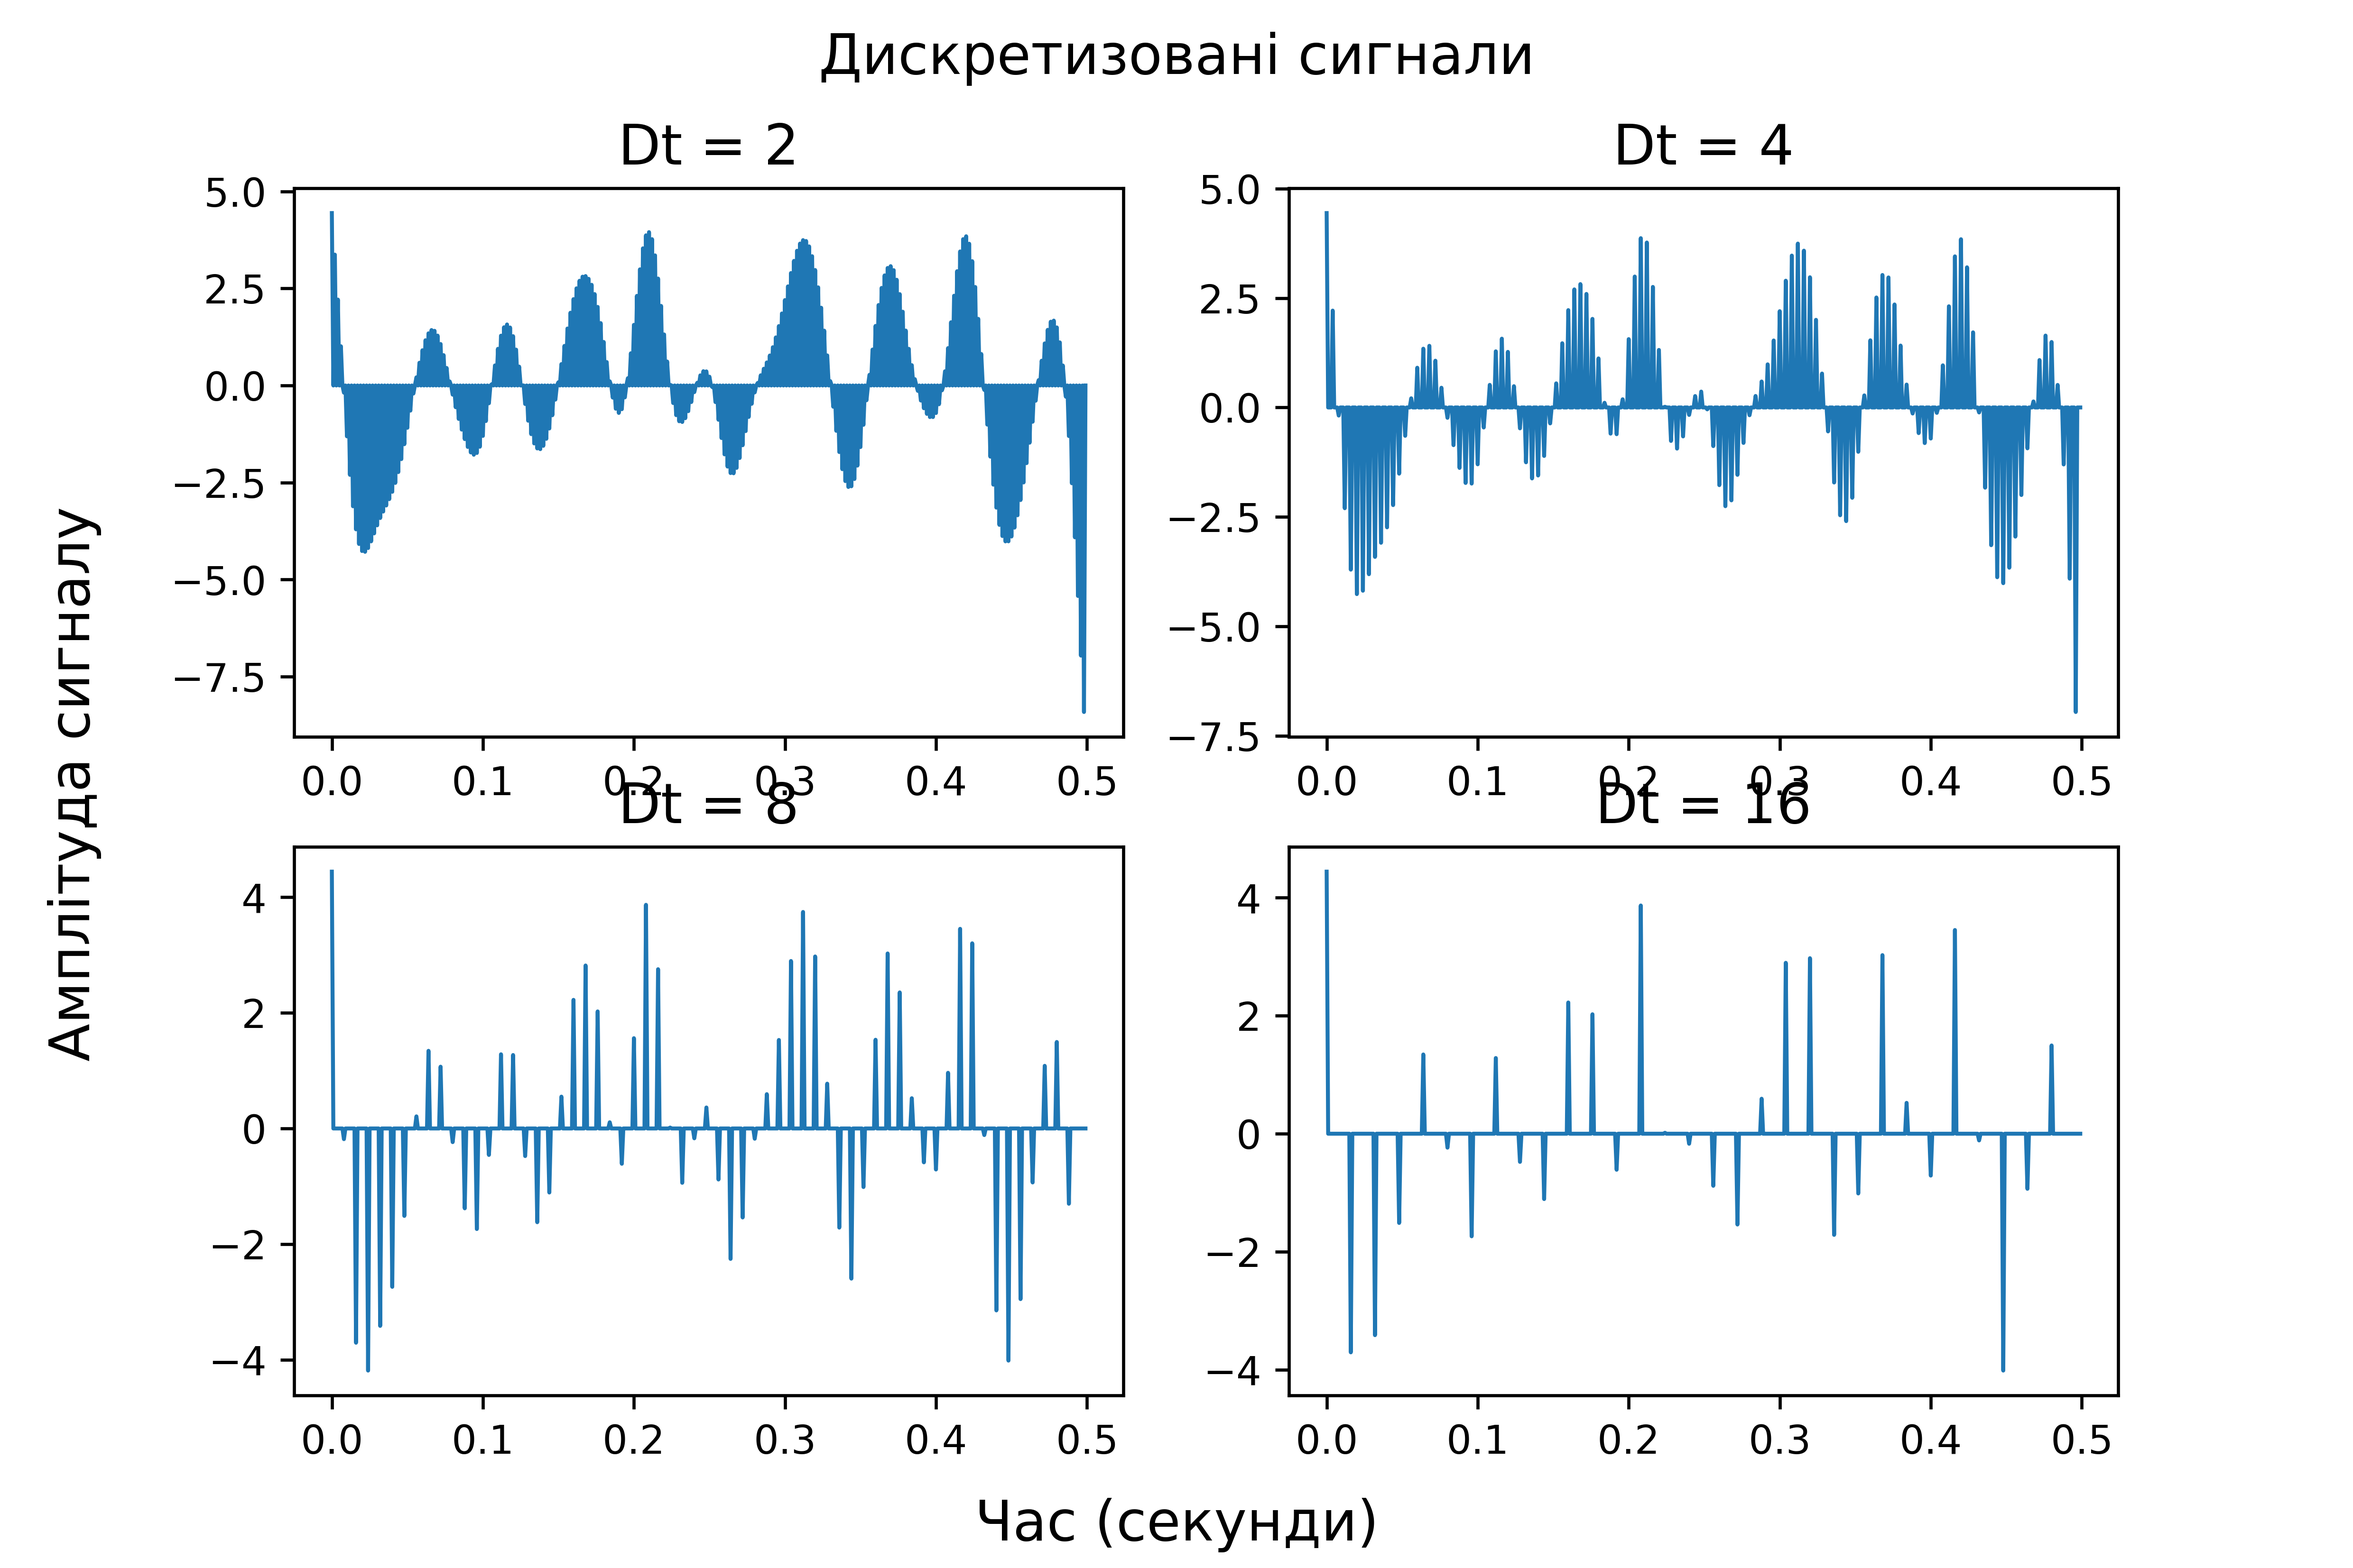
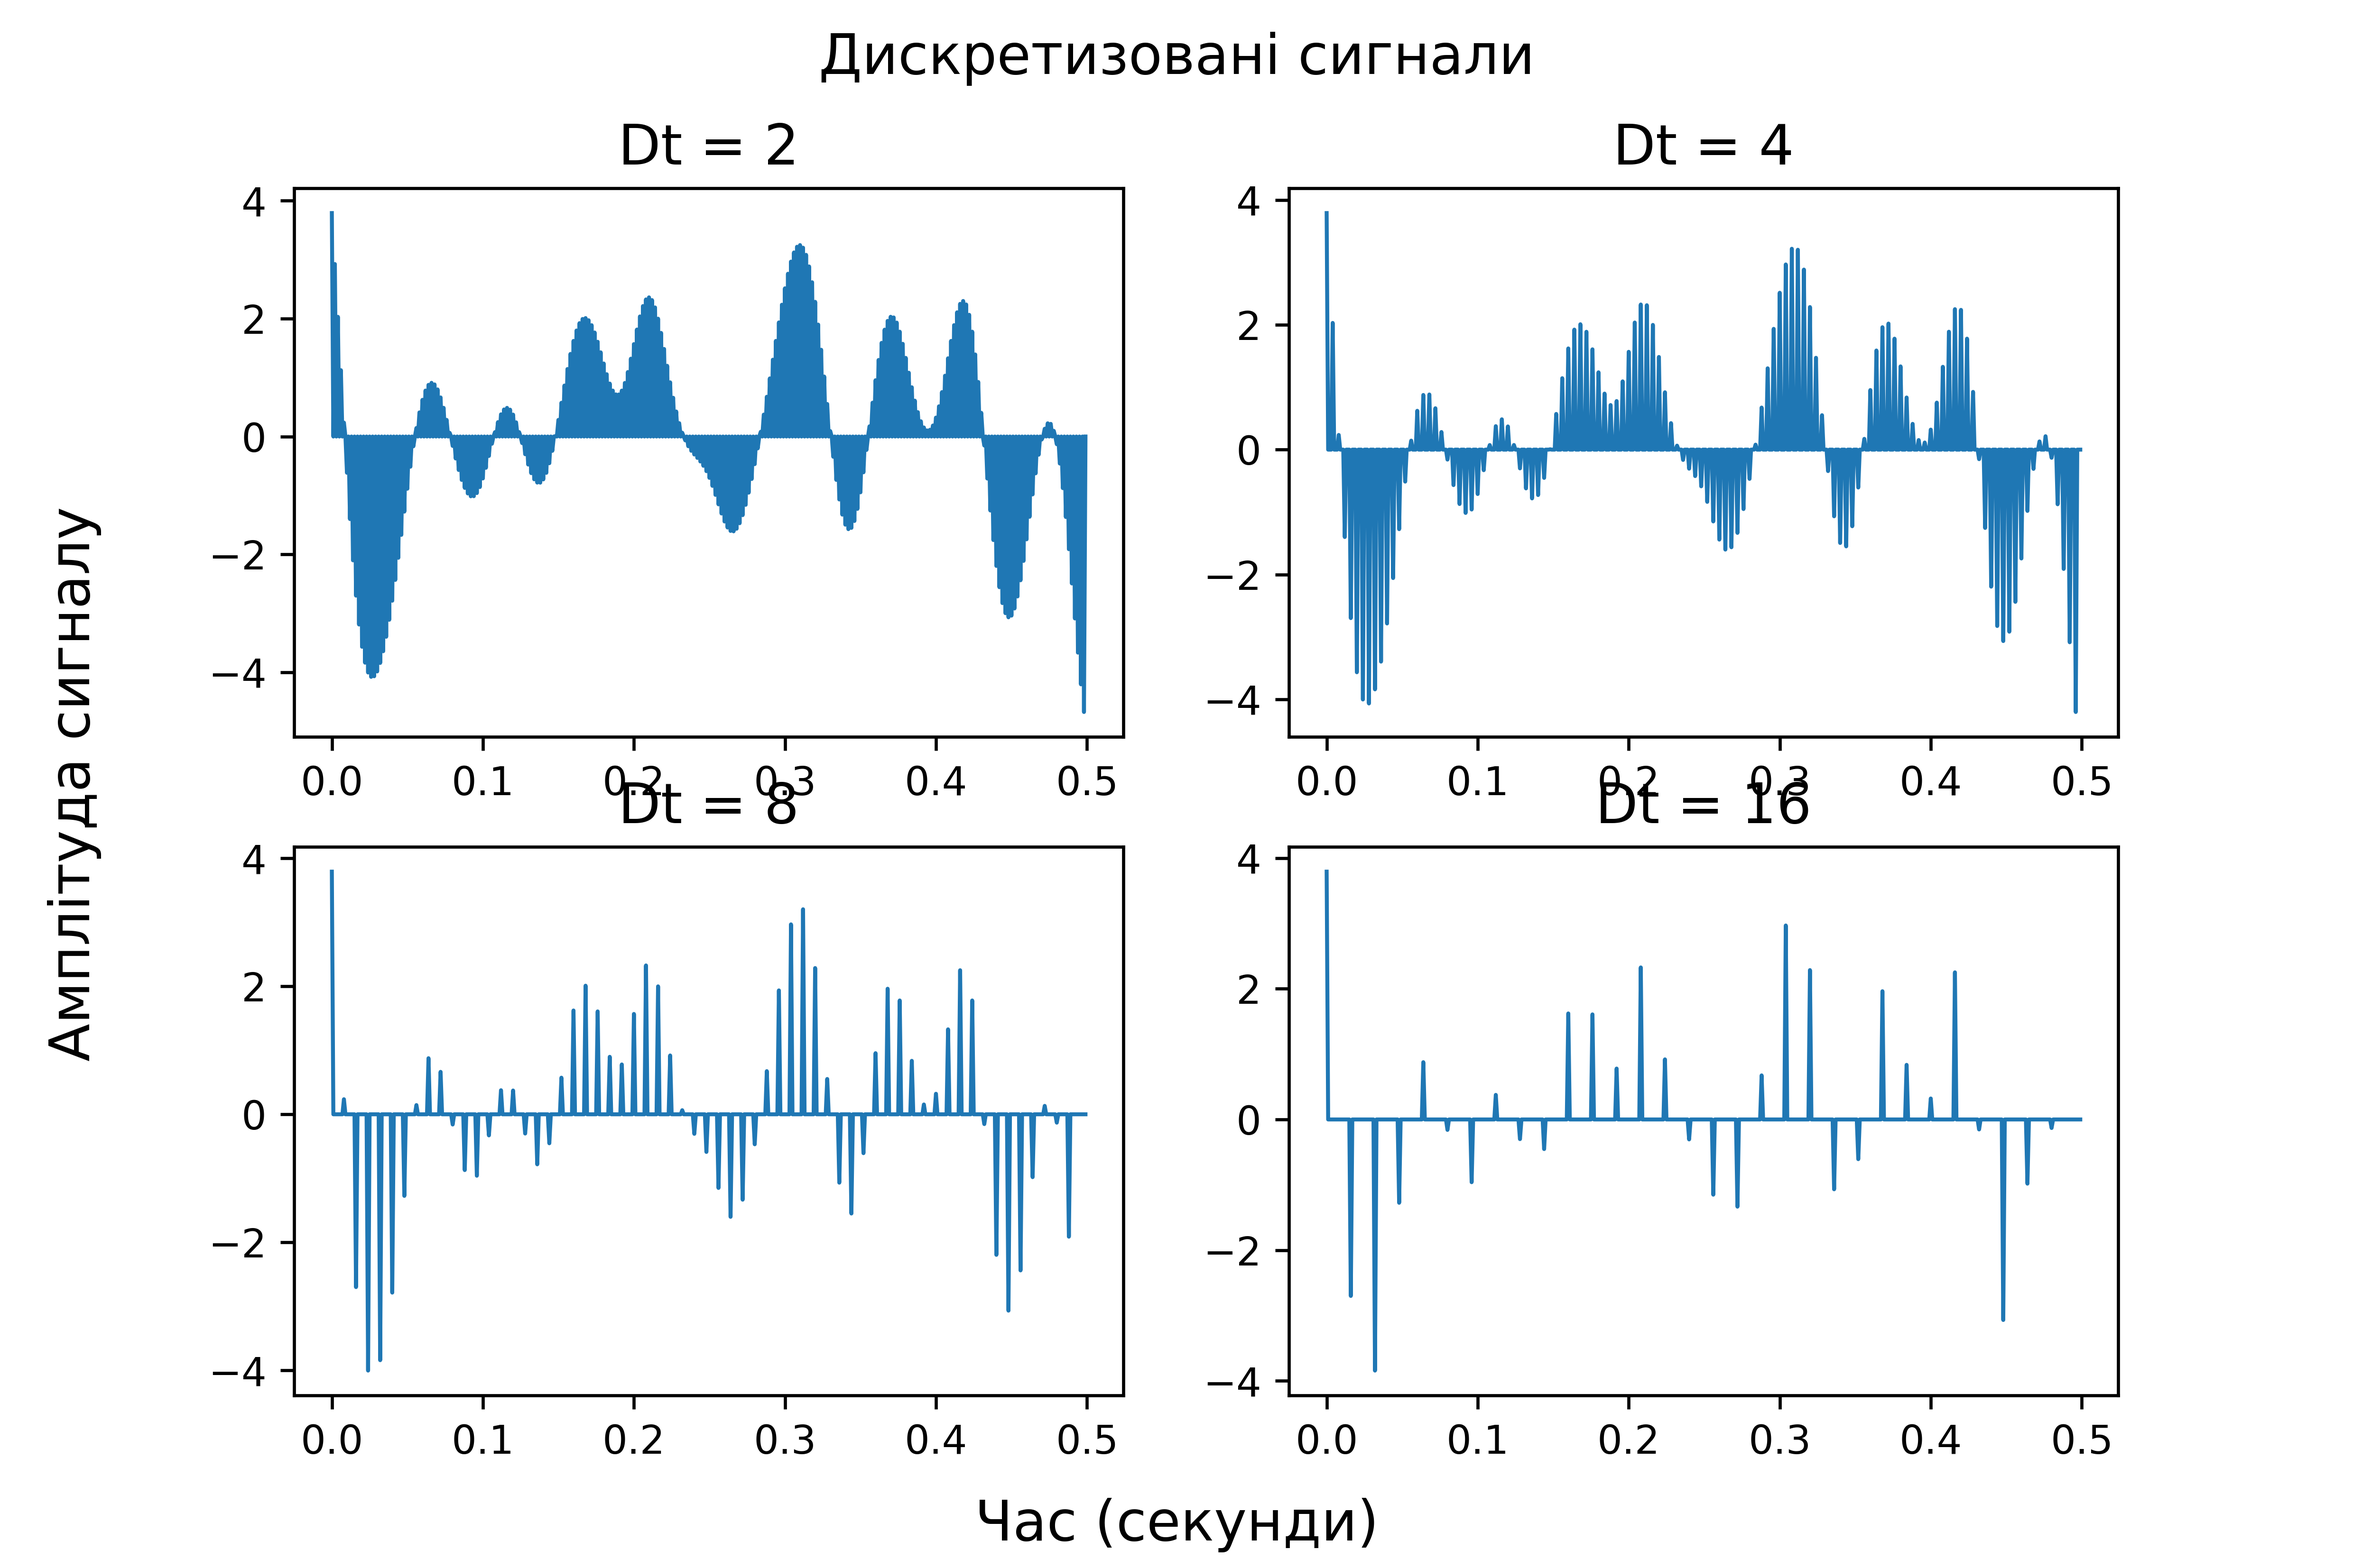
Signal processing, 3

diff --git a/SignalProcessing/SignalProcessing.py b/SignalProcessing/SignalProcessing.py
@@ -7,9 +7,10 @@ from pathlib import Path
 N_SAMPLES = 500
 FS_HZ = 1000
 F_MAX_HZ = 19
-F_FILTER_HZ = 26
+F_FILTER_HZ = F_MAX_HZ
 RANDOM_SEED = 42
 DISCRETIZATION_STEPS = [2, 4, 8, 16]
+QUANTIZATION_LEVELS = [4, 16, 64, 256]
 
 
 def generate_signal(n=N_SAMPLES, mean=0.0, std=10.0, seed=RANDOM_SEED):
@@ -133,6 +134,82 @@ def plot_metric(dt_values, values, title, ylabel, filename):
     fig.savefig(out_dir / filename, dpi=600)
 
 
+def plot_metric_levels(levels, values, title, ylabel, filename):
+    width_cm = 21
+    height_cm = 14
+    font_size = 14
+    line_width = 1
+
+    fig, ax = plt.subplots(figsize=(width_cm / 2.54, height_cm / 2.54))
+    ax.plot(levels, values, linewidth=line_width, marker="o")
+    ax.set_xlabel("Кількість рівнів квантування M", fontsize=font_size)
+    ax.set_ylabel(ylabel, fontsize=font_size)
+    ax.set_title(title, fontsize=font_size)
+    ax.grid(True, linewidth=0.4, alpha=0.6)
+
+    out_dir = Path(__file__).resolve().parent / "figures"
+    out_dir.mkdir(parents=True, exist_ok=True)
+    fig.savefig(out_dir / filename, dpi=600)
+
+
+def plot_quantization_table(quantize_levels, quantize_bits, m_levels):
+    fig, ax = plt.subplots(figsize=(14 / 2.54, m_levels / 2.54))
+    table_data = np.c_[np.round(quantize_levels[:m_levels], 6), quantize_bits[:m_levels]]
+    table = ax.table(
+        cellText=table_data,
+        colLabels=["Значення сигналу", "Кодова послідовність"],
+        loc="center",
+    )
+    table.set_fontsize(14)
+    table.scale(1, 2)
+    ax.axis("off")
+
+    out_dir = Path(__file__).resolve().parent / "figures"
+    out_dir.mkdir(parents=True, exist_ok=True)
+    fig.savefig(out_dir / f"Таблиця квантування для {m_levels} рівнів.png", dpi=600)
+
+
+def plot_bit_sequence(bits, m_levels):
+    width_cm = 21
+    height_cm = 14
+    font_size = 14
+    line_width = 0.1
+
+    fig, ax = plt.subplots(figsize=(width_cm / 2.54, height_cm / 2.54))
+    x = np.arange(0, len(bits))
+    ax.step(x, bits, linewidth=line_width)
+    ax.set_xlabel("Відліки", fontsize=font_size)
+    ax.set_ylabel("Бітова послідовність", fontsize=font_size)
+    ax.set_title(f"Кодова послідовність для M = {m_levels}", fontsize=font_size)
+
+    out_dir = Path(__file__).resolve().parent / "figures"
+    out_dir.mkdir(parents=True, exist_ok=True)
+    fig.savefig(out_dir / f"Кодова послідовність для M = {m_levels}.png", dpi=600)
+
+
+def plot_quantized_signals_grid(signals, time, levels):
+    width_cm = 21
+    height_cm = 14
+    font_size = 14
+    line_width = 1
+
+    fig, ax = plt.subplots(2, 2, figsize=(width_cm / 2.54, height_cm / 2.54))
+    s = 0
+    for i in range(0, 2):
+        for j in range(0, 2):
+            ax[i][j].plot(time, signals[s], linewidth=line_width)
+            ax[i][j].set_title(f"M = {levels[s]}", fontsize=font_size)
+            s += 1
+
+    fig.supxlabel("Час (секунди)", fontsize=font_size)
+    fig.supylabel("Амплітуда сигналу", fontsize=font_size)
+    fig.suptitle("Цифрові сигнали для різних рівнів квантування", fontsize=font_size)
+
+    out_dir = Path(__file__).resolve().parent / "figures"
+    out_dir.mkdir(parents=True, exist_ok=True)
+    fig.savefig(out_dir / "quantized_signals_grid.png", dpi=600)
+
+
 if __name__ == "__main__":
     time = np.arange(N_SAMPLES) / FS_HZ
     random_signal = generate_signal()
@@ -187,3 +264,51 @@ if __name__ == "__main__":
     plot_restored_signals_grid(restored_signals, time, DISCRETIZATION_STEPS)
     plot_metric(DISCRETIZATION_STEPS, variances, "Дисперсія похибки", "Дисперсія", "variance_vs_dt.png")
     plot_metric(DISCRETIZATION_STEPS, snrs, "Співвідношення сигнал/шум", "SNR", "snr_vs_dt.png")
+
+    quantized_signals = []
+    quant_variances = []
+    quant_snrs = []
+    variance_signal = np.var(filtered_signal)
+    for m_levels in QUANTIZATION_LEVELS:
+        min_signal = np.min(filtered_signal)
+        max_signal = np.max(filtered_signal)
+        delta = (max_signal - min_signal) / (m_levels - 1)
+
+        quantize_signal = delta * np.round(filtered_signal / delta)
+        quantized_signals.append(list(quantize_signal))
+
+        levels = np.arange(np.min(quantize_signal), np.max(quantize_signal) + delta / 2, delta)
+        if len(levels) < m_levels:
+            levels = np.linspace(np.min(quantize_signal), np.max(quantize_signal), m_levels)
+
+        bits_per_sample = int(np.log2(m_levels))
+        quantize_bit = [format(bits, "0" + str(bits_per_sample) + "b") for bits in range(m_levels)]
+
+        plot_quantization_table(levels, quantize_bit, m_levels)
+
+        level_indices = np.round((quantize_signal - levels[0]) / delta).astype(int)
+        level_indices = np.clip(level_indices, 0, m_levels - 1)
+        bit_strings = [quantize_bit[index] for index in level_indices]
+        bits = [int(item) for item in list("".join(bit_strings))]
+        plot_bit_sequence(bits, m_levels)
+
+        error = quantize_signal - filtered_signal
+        variance_error = np.var(error)
+        quant_variances.append(variance_error)
+        quant_snrs.append(variance_signal / variance_error if variance_error != 0 else np.inf)
+
+    plot_quantized_signals_grid(quantized_signals, time, QUANTIZATION_LEVELS)
+    plot_metric_levels(
+        QUANTIZATION_LEVELS,
+        quant_variances,
+        "Залежність дисперсії від кількості рівнів квантування",
+        "Дисперсія",
+        "variance_vs_levels.png",
+    )
+    plot_metric_levels(
+        QUANTIZATION_LEVELS,
+        quant_snrs,
+        "Залежність SNR від кількості рівнів квантування",
+        "SNR",
+        "snr_vs_levels.png",
+    )
